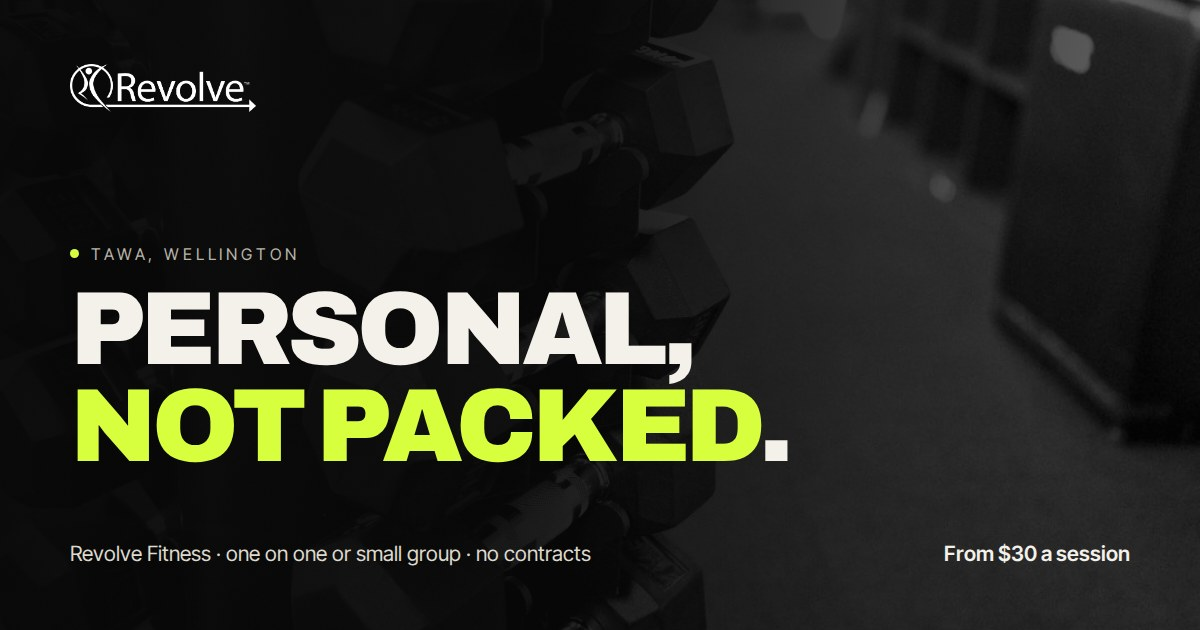
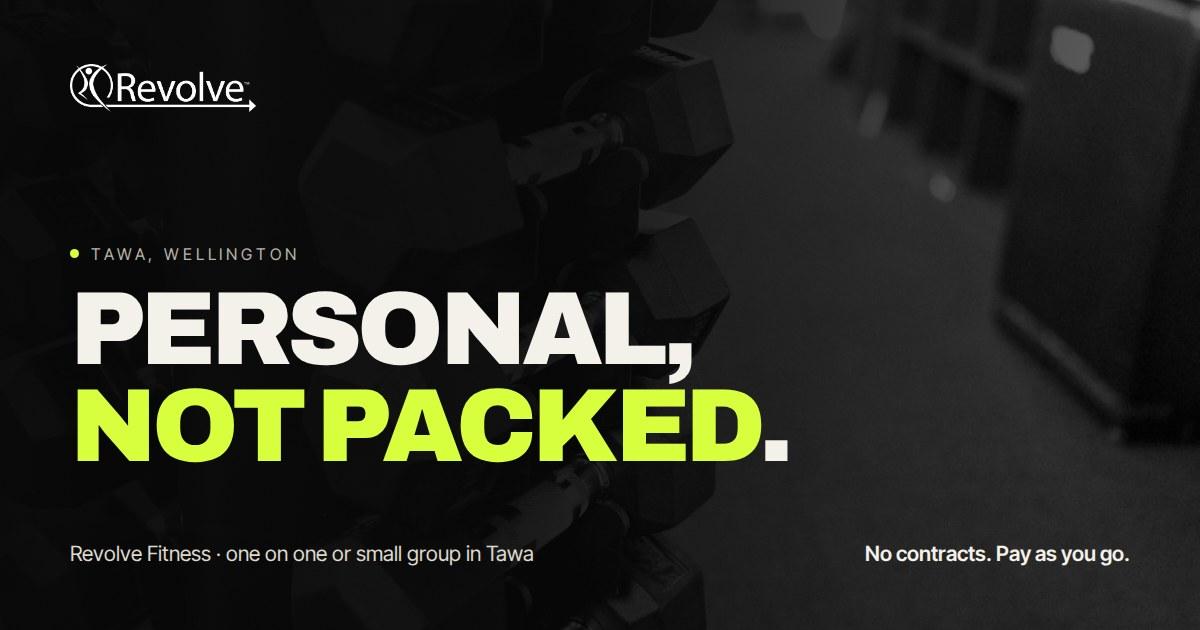
No prices. Their site does not publish one, so the 0 comes out of the hero, the stats, the service cards, the booking data, the metadata and the share card. The fourth stat now counts the massage therapists, which is on their site.

Changed region(s): [[0.7092, 0.8444, 0.9558, 0.9048], [0.37, 0.8444, 0.4933, 0.9048]]

diff --git a/layouts/_default/baseof.html b/layouts/_default/baseof.html
@@ -4,11 +4,11 @@
   <meta charset="utf-8">
   <meta name="viewport" content="width=device-width, initial-scale=1">
   <title>{{ if .IsHome }}{{ .Title }} · Personal training in Tawa{{ else }}{{ .Title }} · {{ .Site.Title }}{{ end }}</title>
-  <meta name="description" content="{{ .Params.description | default "A small, private personal training studio in Tawa, Wellington. One on one or small group, no contracts, from $30 a session." }}">
+  <meta name="description" content="{{ .Params.description | default "A small, private personal training studio in Tawa, Wellington. One on one or small group, no contracts." }}">
   <meta property="og:type" content="website">
   <meta property="og:site_name" content="Revolve Fitness">
   <meta property="og:title" content="{{ if .IsHome }}Revolve Fitness · Personal, not packed{{ else }}{{ .Title }}{{ end }}">
-  <meta property="og:description" content="{{ .Params.description | default "A small, private personal training studio in Tawa, Wellington. One on one or small group, no contracts, from $30 a session." }}">
+  <meta property="og:description" content="{{ .Params.description | default "A small, private personal training studio in Tawa, Wellington. One on one or small group, no contracts." }}">
   <meta property="og:image" content="{{ "img/og.jpg" | absURL }}">
   <meta property="og:image:width" content="1200">
   <meta property="og:image:height" content="630">

diff --git a/content/_index.md b/content/_index.md
@@ -1,26 +1,26 @@
 ---
 title: "Revolve Fitness"
-description: "A small, private personal training studio in Tawa, Wellington. One on one or small group, no contracts, from $30 a session."
+description: "A small, private personal training studio in Tawa, Wellington. One on one or small group, no contracts."
 hero:
   kicker: "Tawa, Wellington"
   title_html: "Personal,<br><em>not packed</em>."
-  sub: "A private training studio in Tawa. One on one or small group, no contracts, from $30 a session."
+  sub: "A private training studio in Tawa. One on one or small group, no contracts, nothing to join."
 stats:
   - num: "8"
     label: "trainers, all under one roof"
   - num: "0"
     label: "contracts, ever"
-  - num: "$30"
-    label: "for a half hour session"
+  - num: "3"
+    label: "massage therapists on site"
   - num: "20"
     label: "years of the over 60s class"
 services:
   - title: "One to one"
     body: "Your own trainer, your own programme, half an hour or a full one. The reason people stay for years."
-    meta: "From $30"
+    meta: "Pay as you go"
   - title: "Small group"
-    body: "Two or three of you, one trainer, the same attention at a friendlier price."
-    meta: "From $30"
+    body: "Two or three of you, one trainer, the same attention, split between you."
+    meta: "Pay as you go"
   - title: "Over 60s class"
     body: "Supervised classes for strength, balance, bone density and confidence. Running for more than 20 years."
     meta: "Mark leads it"
@@ -60,7 +60,7 @@ booking:
     - id: "pt30"
       name: "Personal training"
       length: "30 minutes"
-      price: 30
+      price: 0
     - id: "pt60"
       name: "Personal training"
       length: "60 minutes"
@@ -68,7 +68,7 @@ booking:
     - id: "group"
       name: "Small group"
       length: "30 minutes"
-      price: 30
+      price: 0
     - id: "massage"
       name: "Massage"
       length: "30 minutes"
